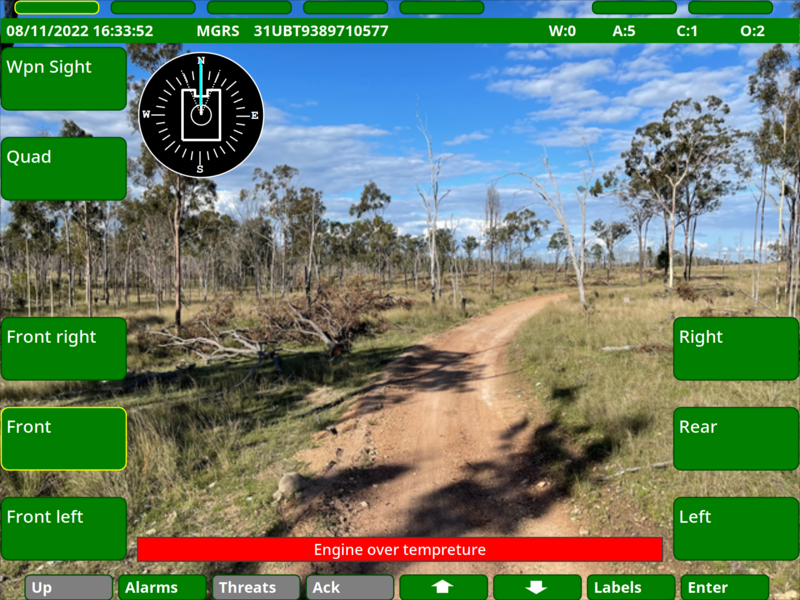
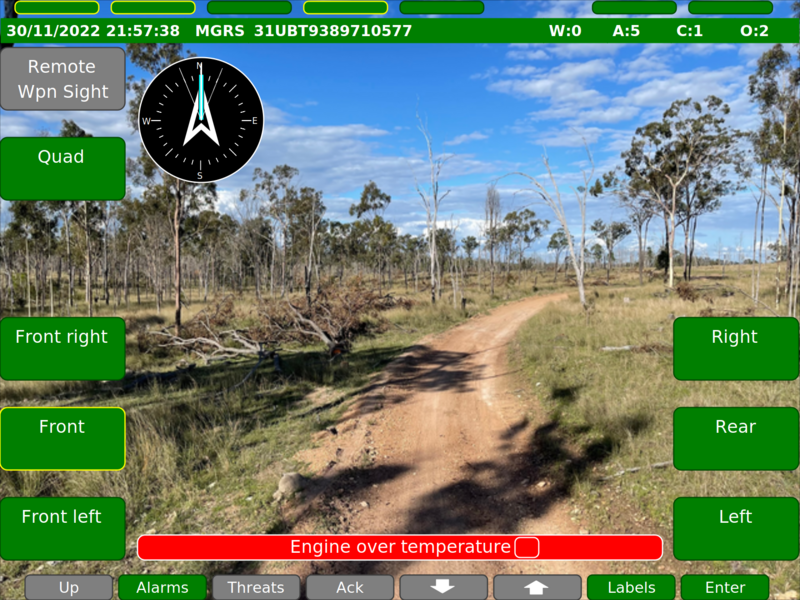
Updated cover image

diff --git a/hmi-display/src/renderer_gva.cc b/hmi-display/src/renderer_gva.cc
@@ -47,8 +47,8 @@ RendererGva::RendererGva(uint32_t width, uint32_t height) : RendererCairo(height
 void RendererGva::DrawIcon(widget::IconType icon, uint32_t x, uint32_t y, uint32_t width, uint32_t height) {
   double sx;
   double sy;
-  std::array arrow{std::array{-5, -10}, std::array{-4, -10}, std::array{-4, 0}, std::array{-8, 0},
-                   std::array{0, +10},  std::array{8, 0},    std::array{+4, 0}, std::array{+4, -10}};
+  std::array arrow{std::array{-4, -10}, std::array{-4, 0}, std::array{-8, 0},  std::array{0, +10},
+                   std::array{8, 0},    std::array{+4, 0}, std::array{+4, -10}};
 
   sx = (width / (double)13);
   sy = (height / (double)15);
@@ -67,8 +67,8 @@ void RendererGva::DrawIcon(widget::IconType icon, uint32_t x, uint32_t y, uint32
     case widget::IconType::kIconUpArrow:
       Scale(sx, sy);
       MovePenRaw(arrow[0][0], arrow[0][1]);
-      for (uint16_t i = 1; i < 8; i++) {
-        DrawPenRaw(arrow[i][0], arrow[i][1]);
+      for (auto point : arrow) {
+        DrawPenRaw(point[0], point[1]);
       }
       ClosePath(true);
       break;
@@ -77,8 +77,8 @@ void RendererGva::DrawIcon(widget::IconType icon, uint32_t x, uint32_t y, uint32
     case widget::IconType::kIconUpArrowOutline:
       Scale(sx, sy);
       MovePenRaw(arrow[0][0], arrow[0][1]);
-      for (uint16_t i = 1; i < 8; i++) {
-        DrawPenRaw(arrow[i][0], arrow[i][1]);
+      for (auto point : arrow) {
+        DrawPenRaw(point[0], point[1]);
       }
       ClosePath(true);
       break;
@@ -88,8 +88,8 @@ void RendererGva::DrawIcon(widget::IconType icon, uint32_t x, uint32_t y, uint32
       Rotate(M_PI * 1.5);
       Scale(sx, sy);
       MovePenRaw(arrow[0][0], arrow[0][1]);
-      for (uint16_t i = 1; i < 8; i++) {
-        DrawPenRaw(arrow[i][0], arrow[i][1]);
+      for (auto point : arrow) {
+        DrawPenRaw(point[0], point[1]);
       }
       ClosePath(true);
       break;
@@ -99,8 +99,8 @@ void RendererGva::DrawIcon(widget::IconType icon, uint32_t x, uint32_t y, uint32
       Rotate(M_PI * 1.5);
       Scale(sx, sy);
       MovePenRaw(arrow[0][0], arrow[0][1]);
-      for (uint16_t i = 1; i < 8; i++) {
-        DrawPenRaw(arrow[i][0], arrow[i][1]);
+      for (auto point : arrow) {
+        DrawPenRaw(point[0], point[1]);
       }
       ClosePath(true);
       break;

diff --git a/hmi-display/src/hmi_gva.cc b/hmi-display/src/hmi_gva.cc
@@ -144,9 +144,6 @@ void Hmi::SetCanvasPng(const std::string file) {
 
 void Hmi::Reset() {
   screen_.status_bar->visible = true;
-  // screen_.function_top->Reset();
-  // screen_.function_left.Reset();
-  // screen_.function_right.Reset();
   Labels(screen_.labels);
   screen_.canvas.visible = false;
   screen_.canvas.bufferType = SurfaceType::kSurfaceNone;
